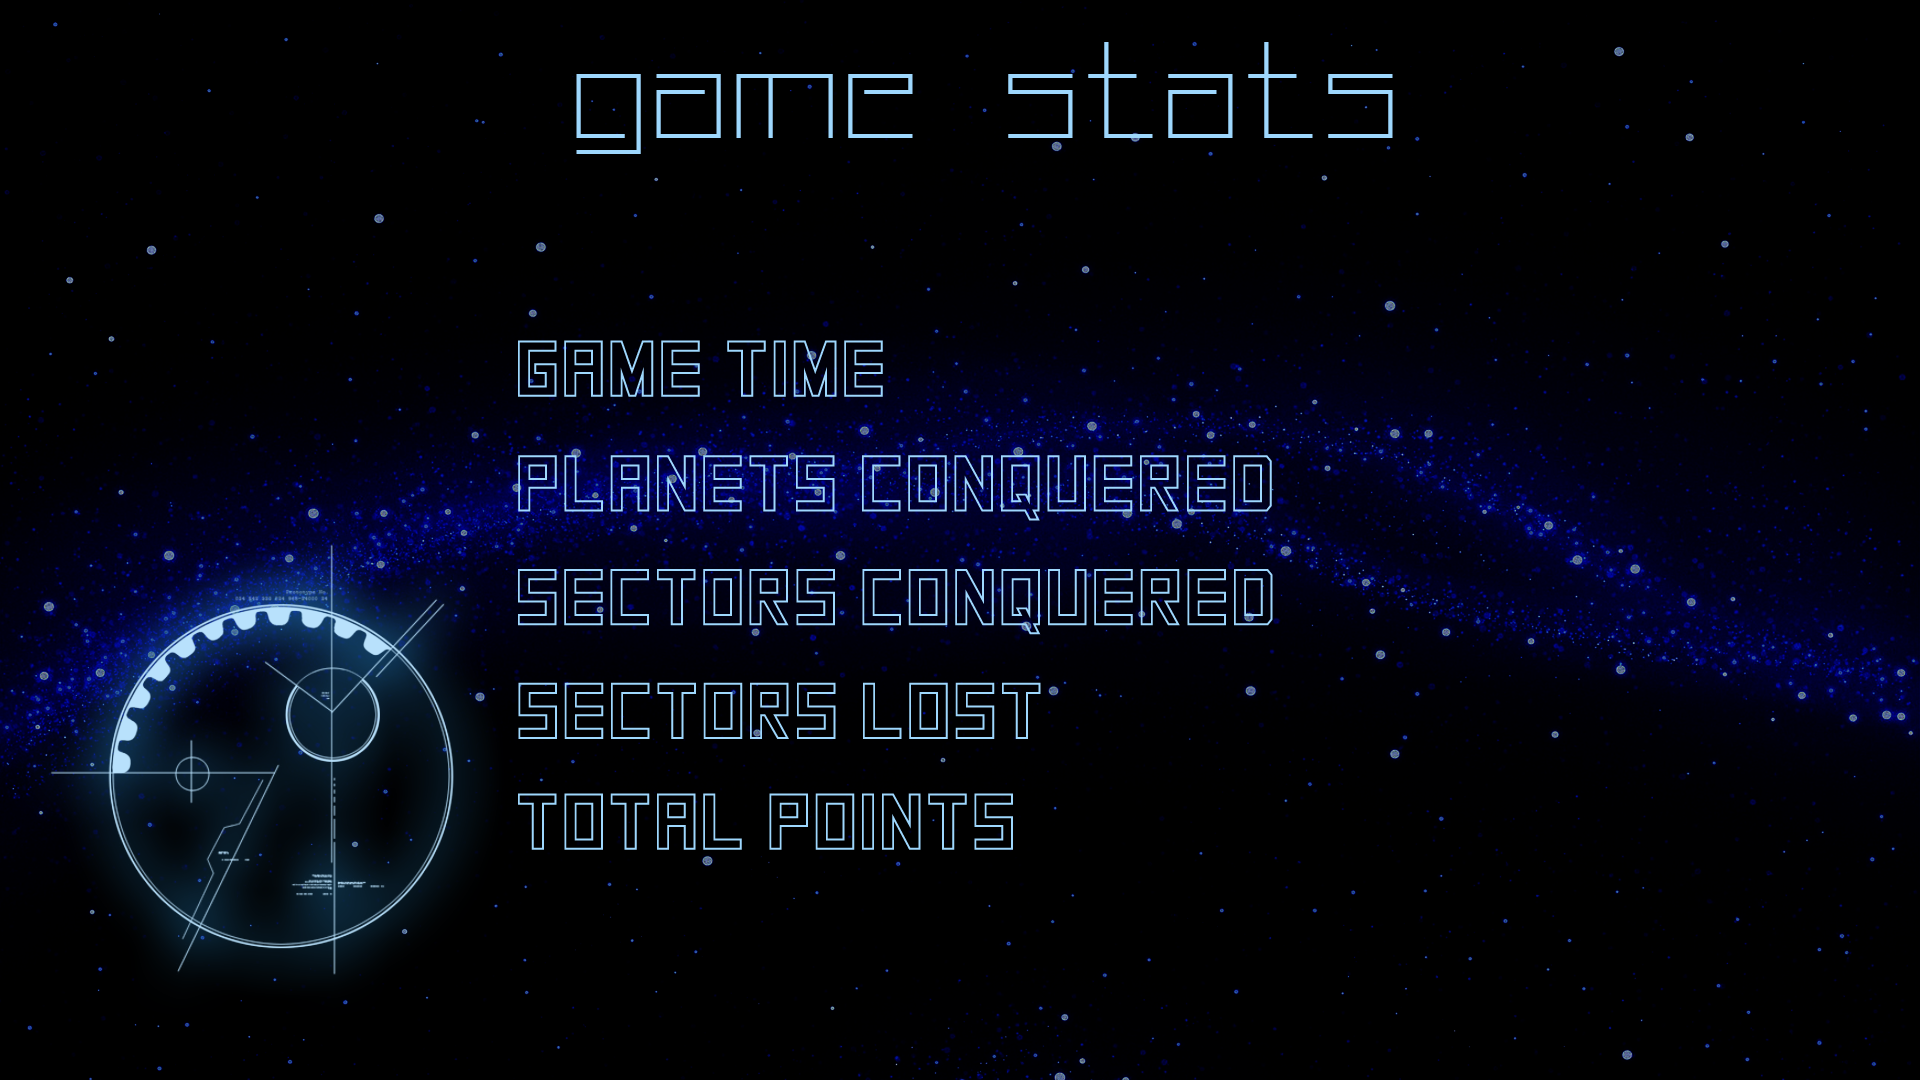
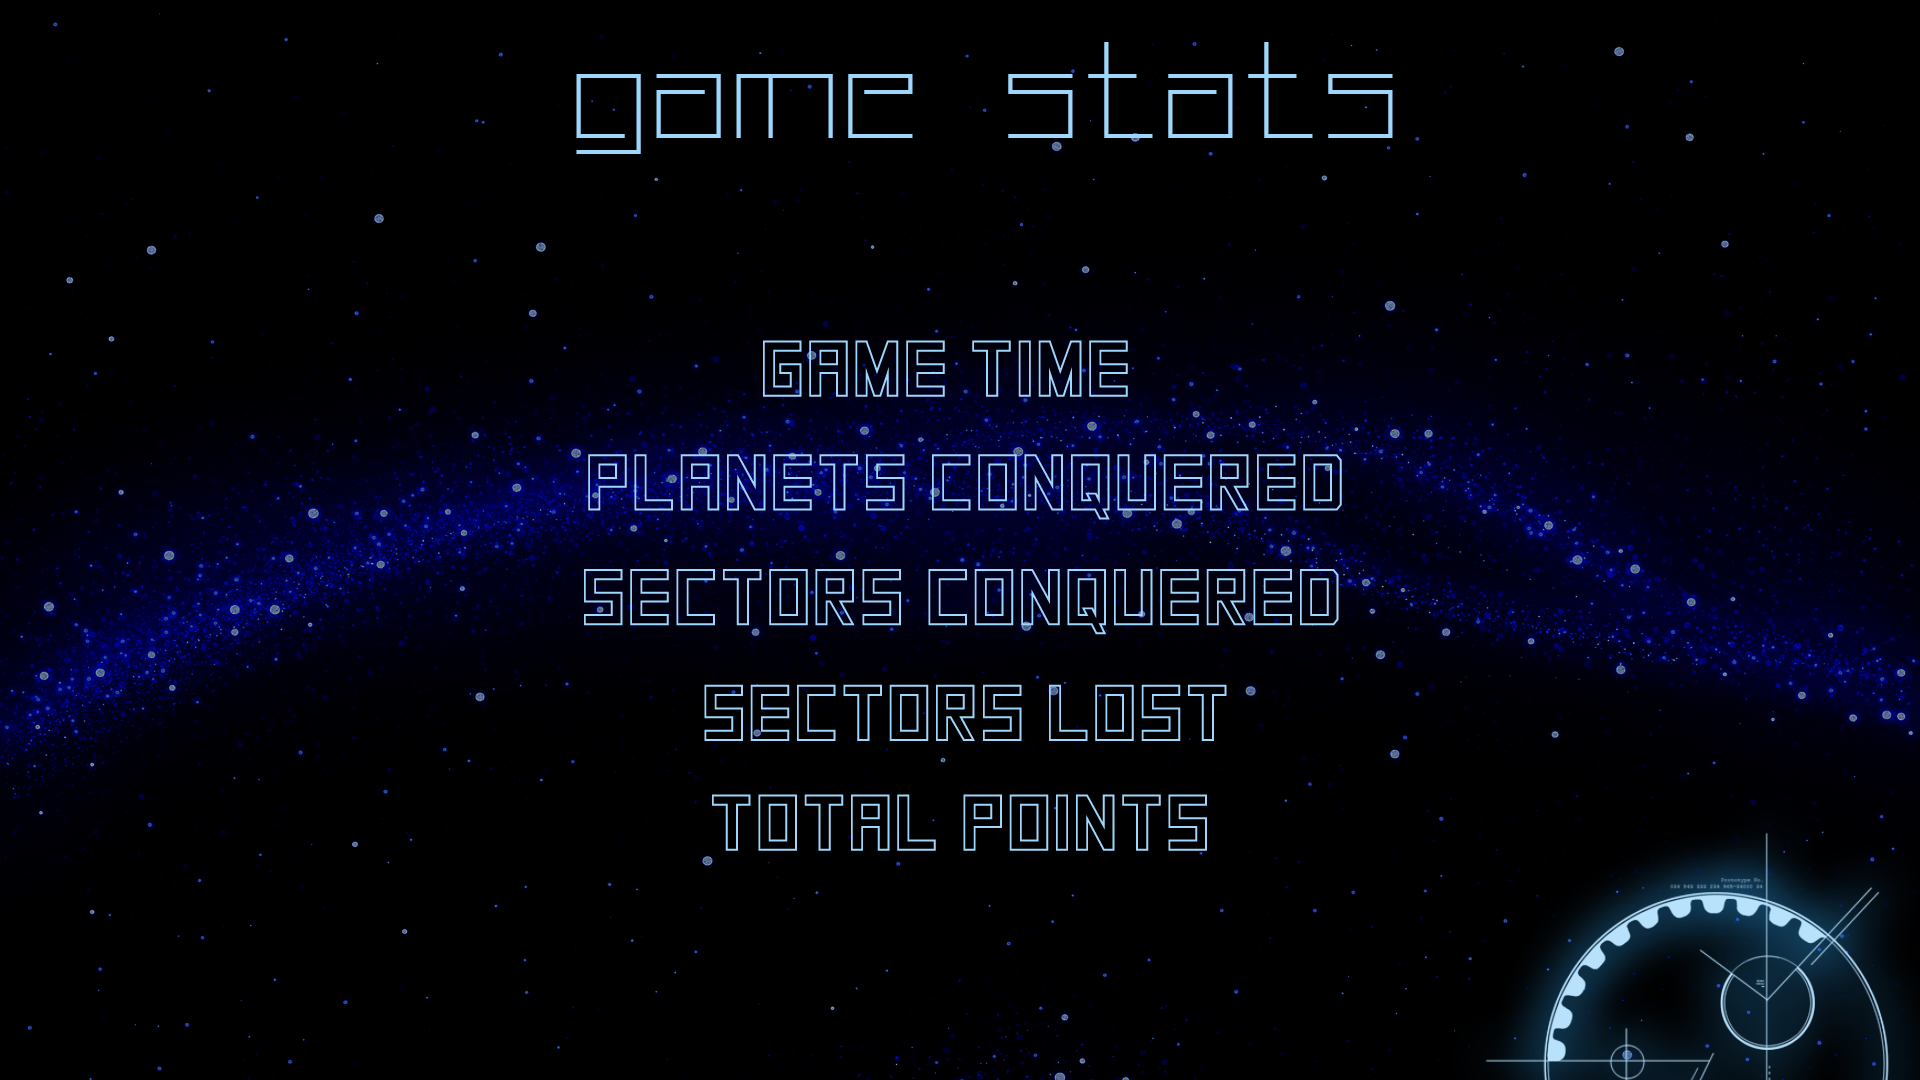
added stuff to game stats screen
second player scores + winner label

diff --git a/Kulami/Kulami/Scores.xaml b/Kulami/Kulami/Scores.xaml
@@ -7,13 +7,21 @@
              d:DesignHeight="880" d:DesignWidth="1720">
     <Grid>
         <Canvas Name="ScoresBackground" HorizontalAlignment="Left" Height="920" VerticalAlignment="Top" Width="1760">
-            
+
             <Button Content="main menu" Canvas.Left="28" Canvas.Top="84" Width="260" Height="60" Background="{x:Null}" BorderBrush="{x:Null}" FontFamily="SquareFont" FontSize="52" HorizontalAlignment="Center" VerticalAlignment="Center" TextOptions.TextHintingMode="Animated" Foreground="#FFBEEAFF" Click="Button_Click"/>
-            <Label x:Name="gameTimeLabel" Content="00" Canvas.Left="1177" Canvas.Top="281" Height="80" Width="338" Background="{x:Null}" BorderBrush="{x:Null}" FontFamily="SquareFont" FontSize="59" HorizontalAlignment="Center" Foreground="#FFBEEAFF" VerticalAlignment="Center" HorizontalContentAlignment="Center" VerticalContentAlignment="Center"/>
-            <Label x:Name="planetsConqueredLabel" Content="00" Canvas.Left="1270" Canvas.Top="374" Height="73" Width="155" Background="{x:Null}" BorderBrush="{x:Null}" FontFamily="SquareFont" FontSize="59" HorizontalAlignment="Center" Foreground="#FFBEEAFF" VerticalAlignment="Center" HorizontalContentAlignment="Center" VerticalContentAlignment="Center"/>
-            <Label x:Name="sectorsConqueredLabel" Content="00" Canvas.Left="1270" Canvas.Top="465" Height="98" Width="155" Background="{x:Null}" BorderBrush="{x:Null}" FontFamily="SquareFont" FontSize="59" HorizontalAlignment="Center" Foreground="#FFBEEAFF" VerticalAlignment="Center" HorizontalContentAlignment="Center" VerticalContentAlignment="Center"/>
-            <Label x:Name="sectorsLostLabel" Content="00" Canvas.Left="1270" Canvas.Top="567" Height="98" Width="155" Background="{x:Null}" BorderBrush="{x:Null}" FontFamily="SquareFont" FontSize="59" HorizontalAlignment="Center" Foreground="#FFBEEAFF" VerticalAlignment="Center" HorizontalContentAlignment="Center" VerticalContentAlignment="Center"/>
-            <Label x:Name="totalScoreLabel" Content="00" Canvas.Left="1270" Canvas.Top="670" Height="88" Width="155" Background="{x:Null}" BorderBrush="{x:Null}" FontFamily="SquareFont" FontSize="59" HorizontalAlignment="Center" Foreground="#FFBEEAFF" VerticalAlignment="Center" HorizontalContentAlignment="Center" VerticalContentAlignment="Center"/>
+            <Label x:Name="gameTimeLabel" Content="00" Canvas.Left="1198" Canvas.Top="281" Height="80" Width="338" Background="{x:Null}" BorderBrush="{x:Null}" FontFamily="SquareFont" FontSize="59" HorizontalAlignment="Center" Foreground="#FFBEEAFF" VerticalAlignment="Center" HorizontalContentAlignment="Center" VerticalContentAlignment="Center"/>
+            <Label x:Name="planetsConqueredLabel" Content="00" Canvas.Left="1291" Canvas.Top="374" Height="73" Width="155" Background="{x:Null}" BorderBrush="{x:Null}" FontFamily="SquareFont" FontSize="59" HorizontalAlignment="Center" Foreground="#FFBEEAFF" VerticalAlignment="Center" HorizontalContentAlignment="Center" VerticalContentAlignment="Center"/>
+            <Label x:Name="sectorsConqueredLabel" Content="00" Canvas.Left="1291" Canvas.Top="465" Height="98" Width="155" Background="{x:Null}" BorderBrush="{x:Null}" FontFamily="SquareFont" FontSize="59" HorizontalAlignment="Center" Foreground="#FFBEEAFF" VerticalAlignment="Center" HorizontalContentAlignment="Center" VerticalContentAlignment="Center"/>
+            <Label x:Name="sectorsLostLabel" Content="00" Canvas.Left="1291" Canvas.Top="567" Height="98" Width="155" Background="{x:Null}" BorderBrush="{x:Null}" FontFamily="SquareFont" FontSize="59" HorizontalAlignment="Center" Foreground="#FFBEEAFF" VerticalAlignment="Center" HorizontalContentAlignment="Center" VerticalContentAlignment="Center"/>
+            <Label x:Name="totalScoreLabel" Content="00" Canvas.Left="1291" Canvas.Top="670" Height="88" Width="155" Background="{x:Null}" BorderBrush="{x:Null}" FontFamily="SquareFont" FontSize="59" HorizontalAlignment="Center" Foreground="#FFBEEAFF" VerticalAlignment="Center" HorizontalContentAlignment="Center" VerticalContentAlignment="Center"/>
+            <Label x:Name="gameTimeLabel2" Content="00" Canvas.Left="202" Canvas.Top="281" Height="80" Width="338" Background="{x:Null}" BorderBrush="{x:Null}" FontFamily="SquareFont" FontSize="59" HorizontalAlignment="Center" Foreground="#FFBEEAFF" VerticalAlignment="Center" HorizontalContentAlignment="Center" VerticalContentAlignment="Center"/>
+            <Label x:Name="planetsConqueredLabel2" Content="00" Canvas.Left="295" Canvas.Top="374" Height="73" Width="155" Background="{x:Null}" BorderBrush="{x:Null}" FontFamily="SquareFont" FontSize="59" HorizontalAlignment="Center" Foreground="#FFBEEAFF" VerticalAlignment="Center" HorizontalContentAlignment="Center" VerticalContentAlignment="Center"/>
+            <Label x:Name="sectorsConqueredLabel2" Content="00" Canvas.Left="295" Canvas.Top="465" Height="98" Width="155" Background="{x:Null}" BorderBrush="{x:Null}" FontFamily="SquareFont" FontSize="59" HorizontalAlignment="Center" Foreground="#FFBEEAFF" VerticalAlignment="Center" HorizontalContentAlignment="Center" VerticalContentAlignment="Center"/>
+            <Label x:Name="sectorsLostLabel2" Content="00" Canvas.Left="295" Canvas.Top="567" Height="98" Width="155" Background="{x:Null}" BorderBrush="{x:Null}" FontFamily="SquareFont" FontSize="59" HorizontalAlignment="Center" Foreground="#FFBEEAFF" VerticalAlignment="Center" HorizontalContentAlignment="Center" VerticalContentAlignment="Center"/>
+            <Label x:Name="totalScoreLabel2" Content="00" Canvas.Left="295" Canvas.Top="670" Height="88" Width="155" Background="{x:Null}" BorderBrush="{x:Null}" FontFamily="SquareFont" FontSize="59" HorizontalAlignment="Center" Foreground="#FFBEEAFF" VerticalAlignment="Center" HorizontalContentAlignment="Center" VerticalContentAlignment="Center"/>
+            <Label x:Name="player2Label" Content="blue" Canvas.Left="202" Canvas.Top="207" Height="69" Width="338" Background="{x:Null}" BorderBrush="{x:Null}" FontFamily="SquareFont" FontSize="59" HorizontalAlignment="Center" Foreground="#FFBEEAFF" VerticalAlignment="Center" HorizontalContentAlignment="Center" VerticalContentAlignment="Center"/>
+            <Label x:Name="player1Label" Content="red" Canvas.Left="1198" Canvas.Top="207" Height="69" Width="338" Background="{x:Null}" BorderBrush="{x:Null}" FontFamily="SquareFont" FontSize="59" HorizontalAlignment="Center" Foreground="#FFBEEAFF" VerticalAlignment="Center" HorizontalContentAlignment="Center" VerticalContentAlignment="Center"/>
+            <Label x:Name="winnerLabel" Content="player x wins!" Canvas.Left="590" Canvas.Top="799" Height="69" Width="572" Background="{x:Null}" FontFamily="SquareFont" FontSize="59" HorizontalAlignment="Center" Foreground="#FFBEEAFF" VerticalAlignment="Center" HorizontalContentAlignment="Center" VerticalContentAlignment="Center"/>
         </Canvas>
 
     </Grid>

diff --git a/Kulami/Kulami/GamePage.xaml b/Kulami/Kulami/GamePage.xaml
@@ -108,6 +108,7 @@
                 </Label.Style>
             </Label>
             <Button x:Name="toggleSound_Btn" Content="Sound" Canvas.Left="1490" Canvas.Top="757" Width="260" Height="60" Background="{x:Null}" BorderBrush="{x:Null}" FontFamily="SquareFont" FontSize="52" HorizontalAlignment="Center" VerticalAlignment="Center" TextOptions.TextHintingMode="Animated" Foreground="#FFBEEAFF" Click="Toggle_Sound"/>
+            <Button Content="" Canvas.Left="10" Canvas.Top="10" Width="109" Height="88" Background="Black" BorderBrush="{x:Null}"/>
         </Canvas>
 
     </Grid>

diff --git a/Kulami/Kulami/Scores.xaml.cs b/Kulami/Kulami/Scores.xaml.cs
@@ -33,6 +33,13 @@ namespace Kulami
             sectorsConqueredLabel.Content = stats.RedSectorsWon.ToString();
             sectorsLostLabel.Content = stats.RedSectorsLost.ToString();
             totalScoreLabel.Content = stats.RedPoints.ToString();
+            gameTimeLabel2.Content = stats.ElapsedTime;
+            planetsConqueredLabel2.Content = stats.BluePlanetsConquered.ToString();
+            sectorsConqueredLabel2.Content = stats.BlueSectorsWon.ToString();
+            sectorsLostLabel2.Content = stats.BlueSectorsLost.ToString();
+            totalScoreLabel2.Content = stats.BluePoints.ToString();
+            winnerLabel.Content = (stats.BluePoints == stats.RedPoints) ? "It's a tie!" : "Game Over";
+            winnerLabel.Content = (stats.BluePoints > stats.RedPoints) ? "Blue player wins!" : "Red player wins!";
             ImageBrush ib = new ImageBrush();
             ib.ImageSource = new BitmapImage(new Uri(startupPath + "/images/GameStatsBackground.png", UriKind.Absolute));
             ScoresBackground.Background = ib;
